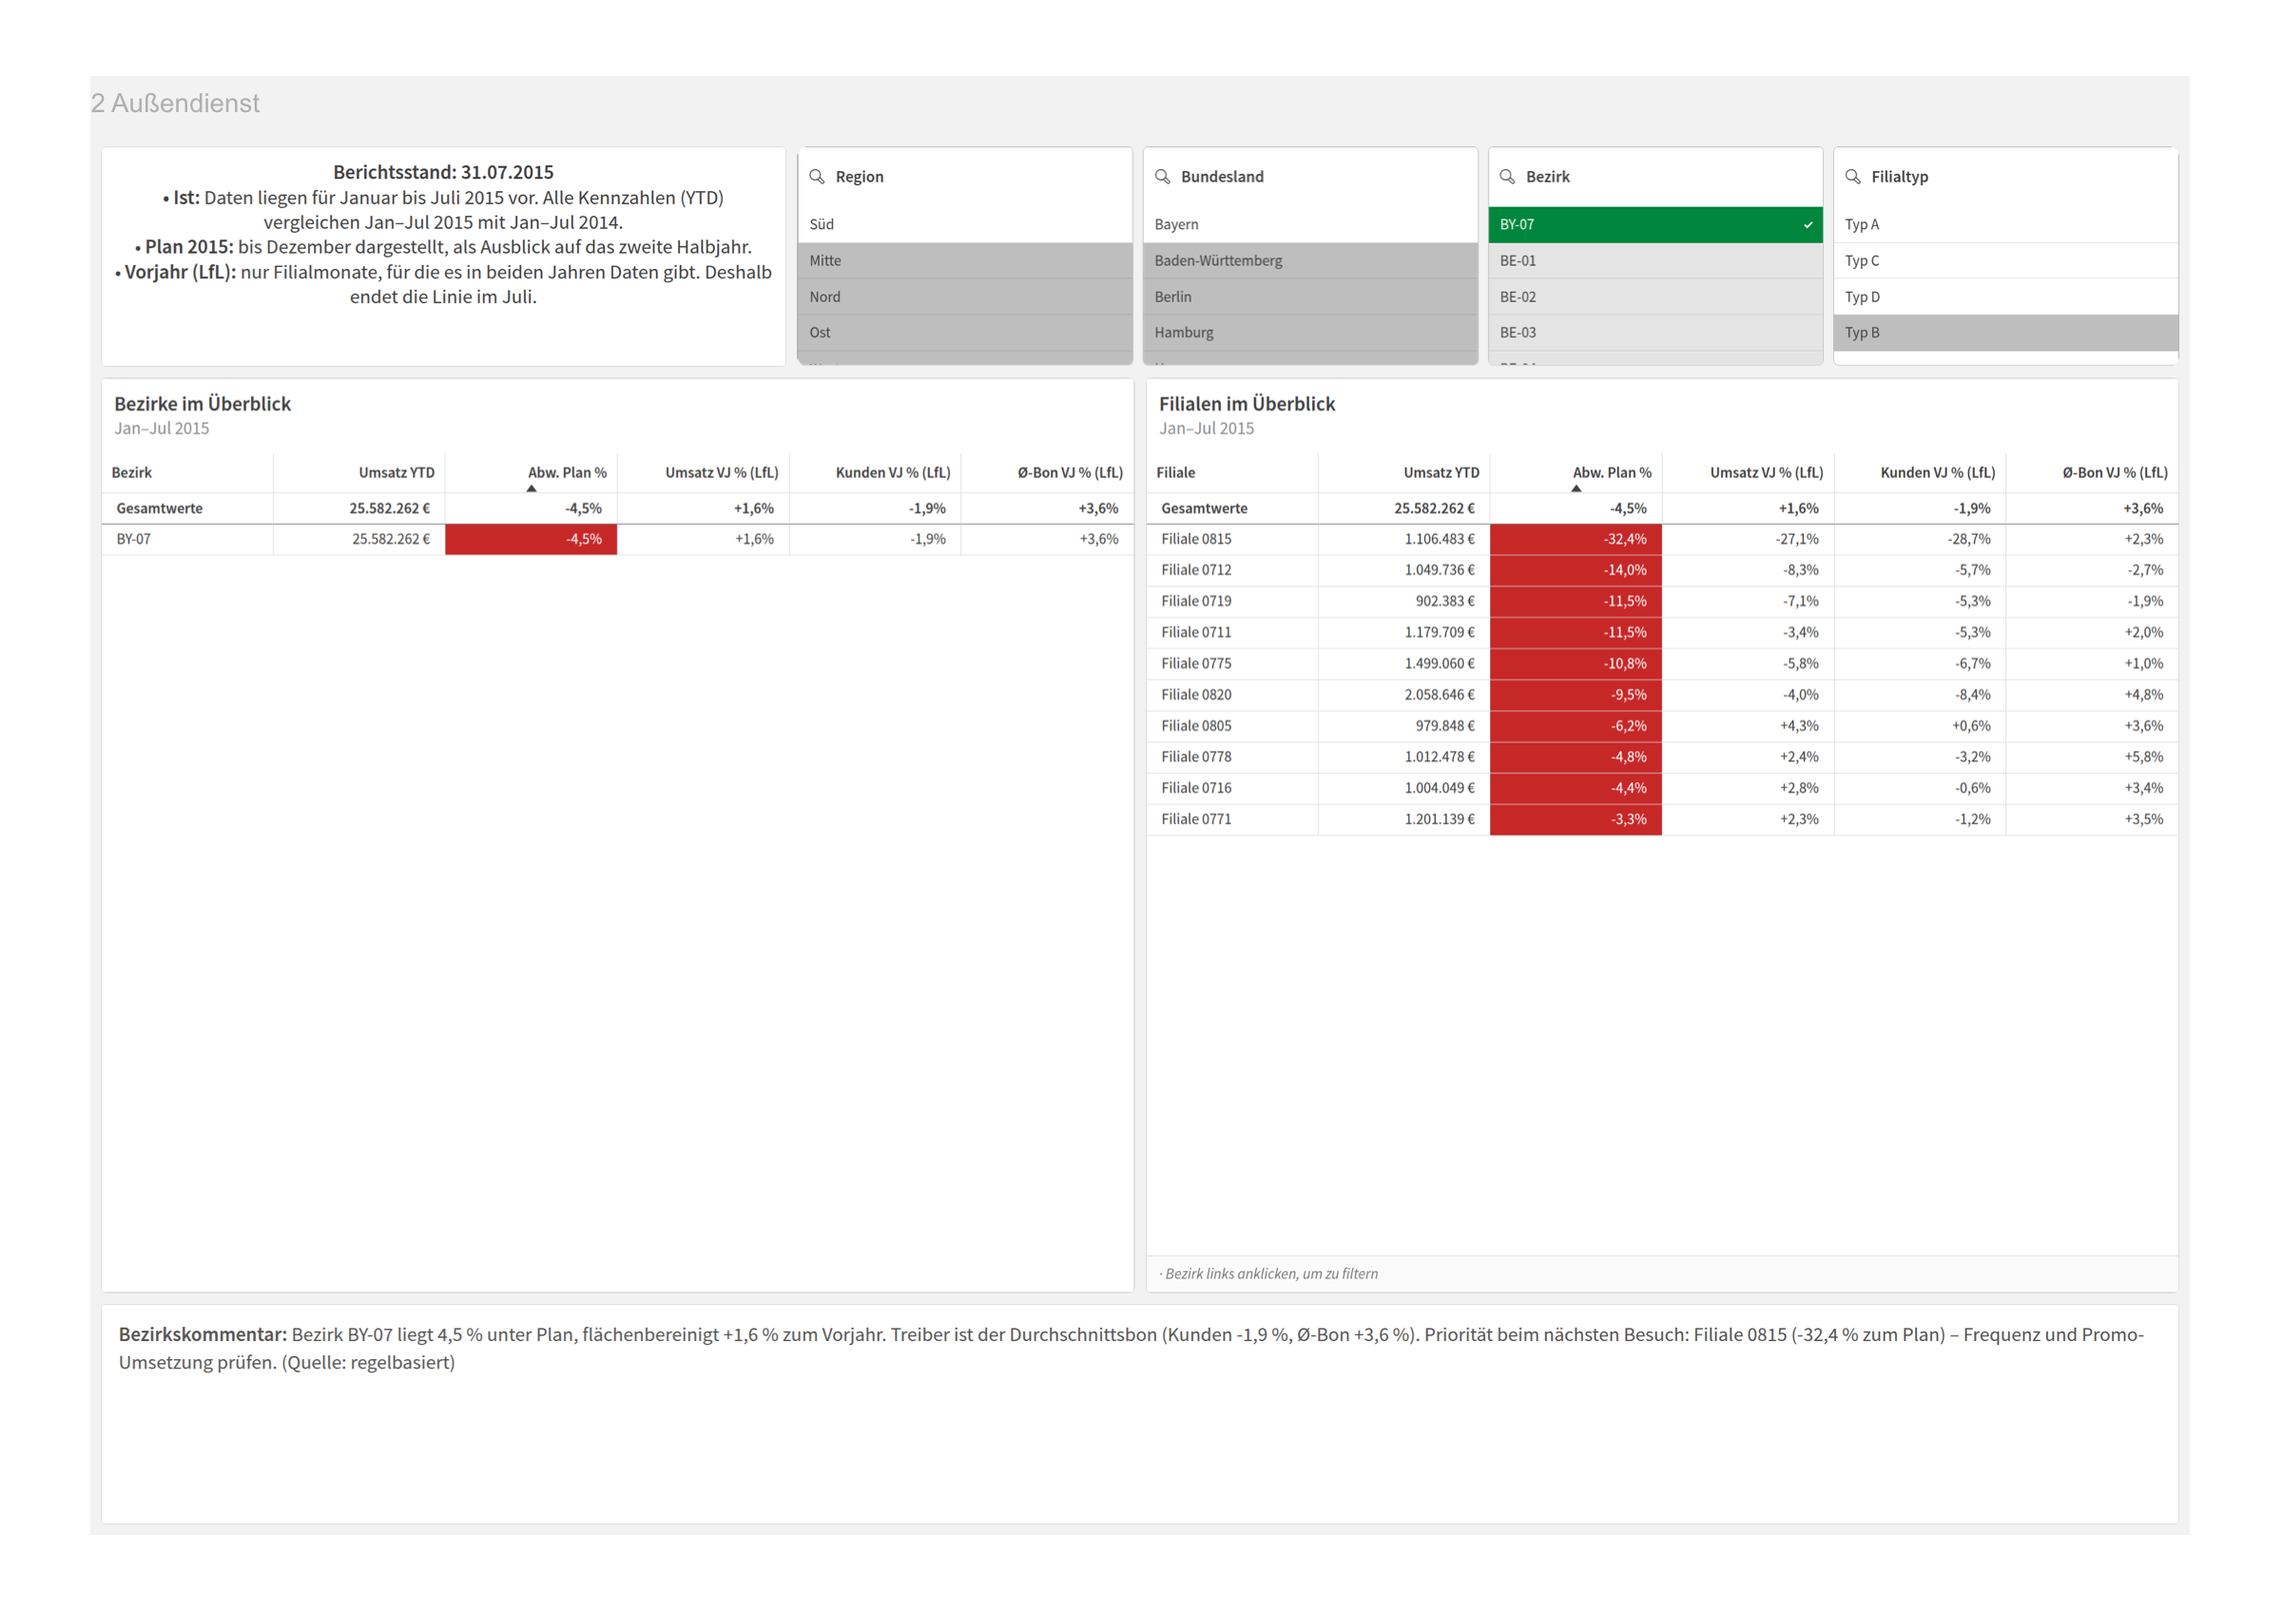
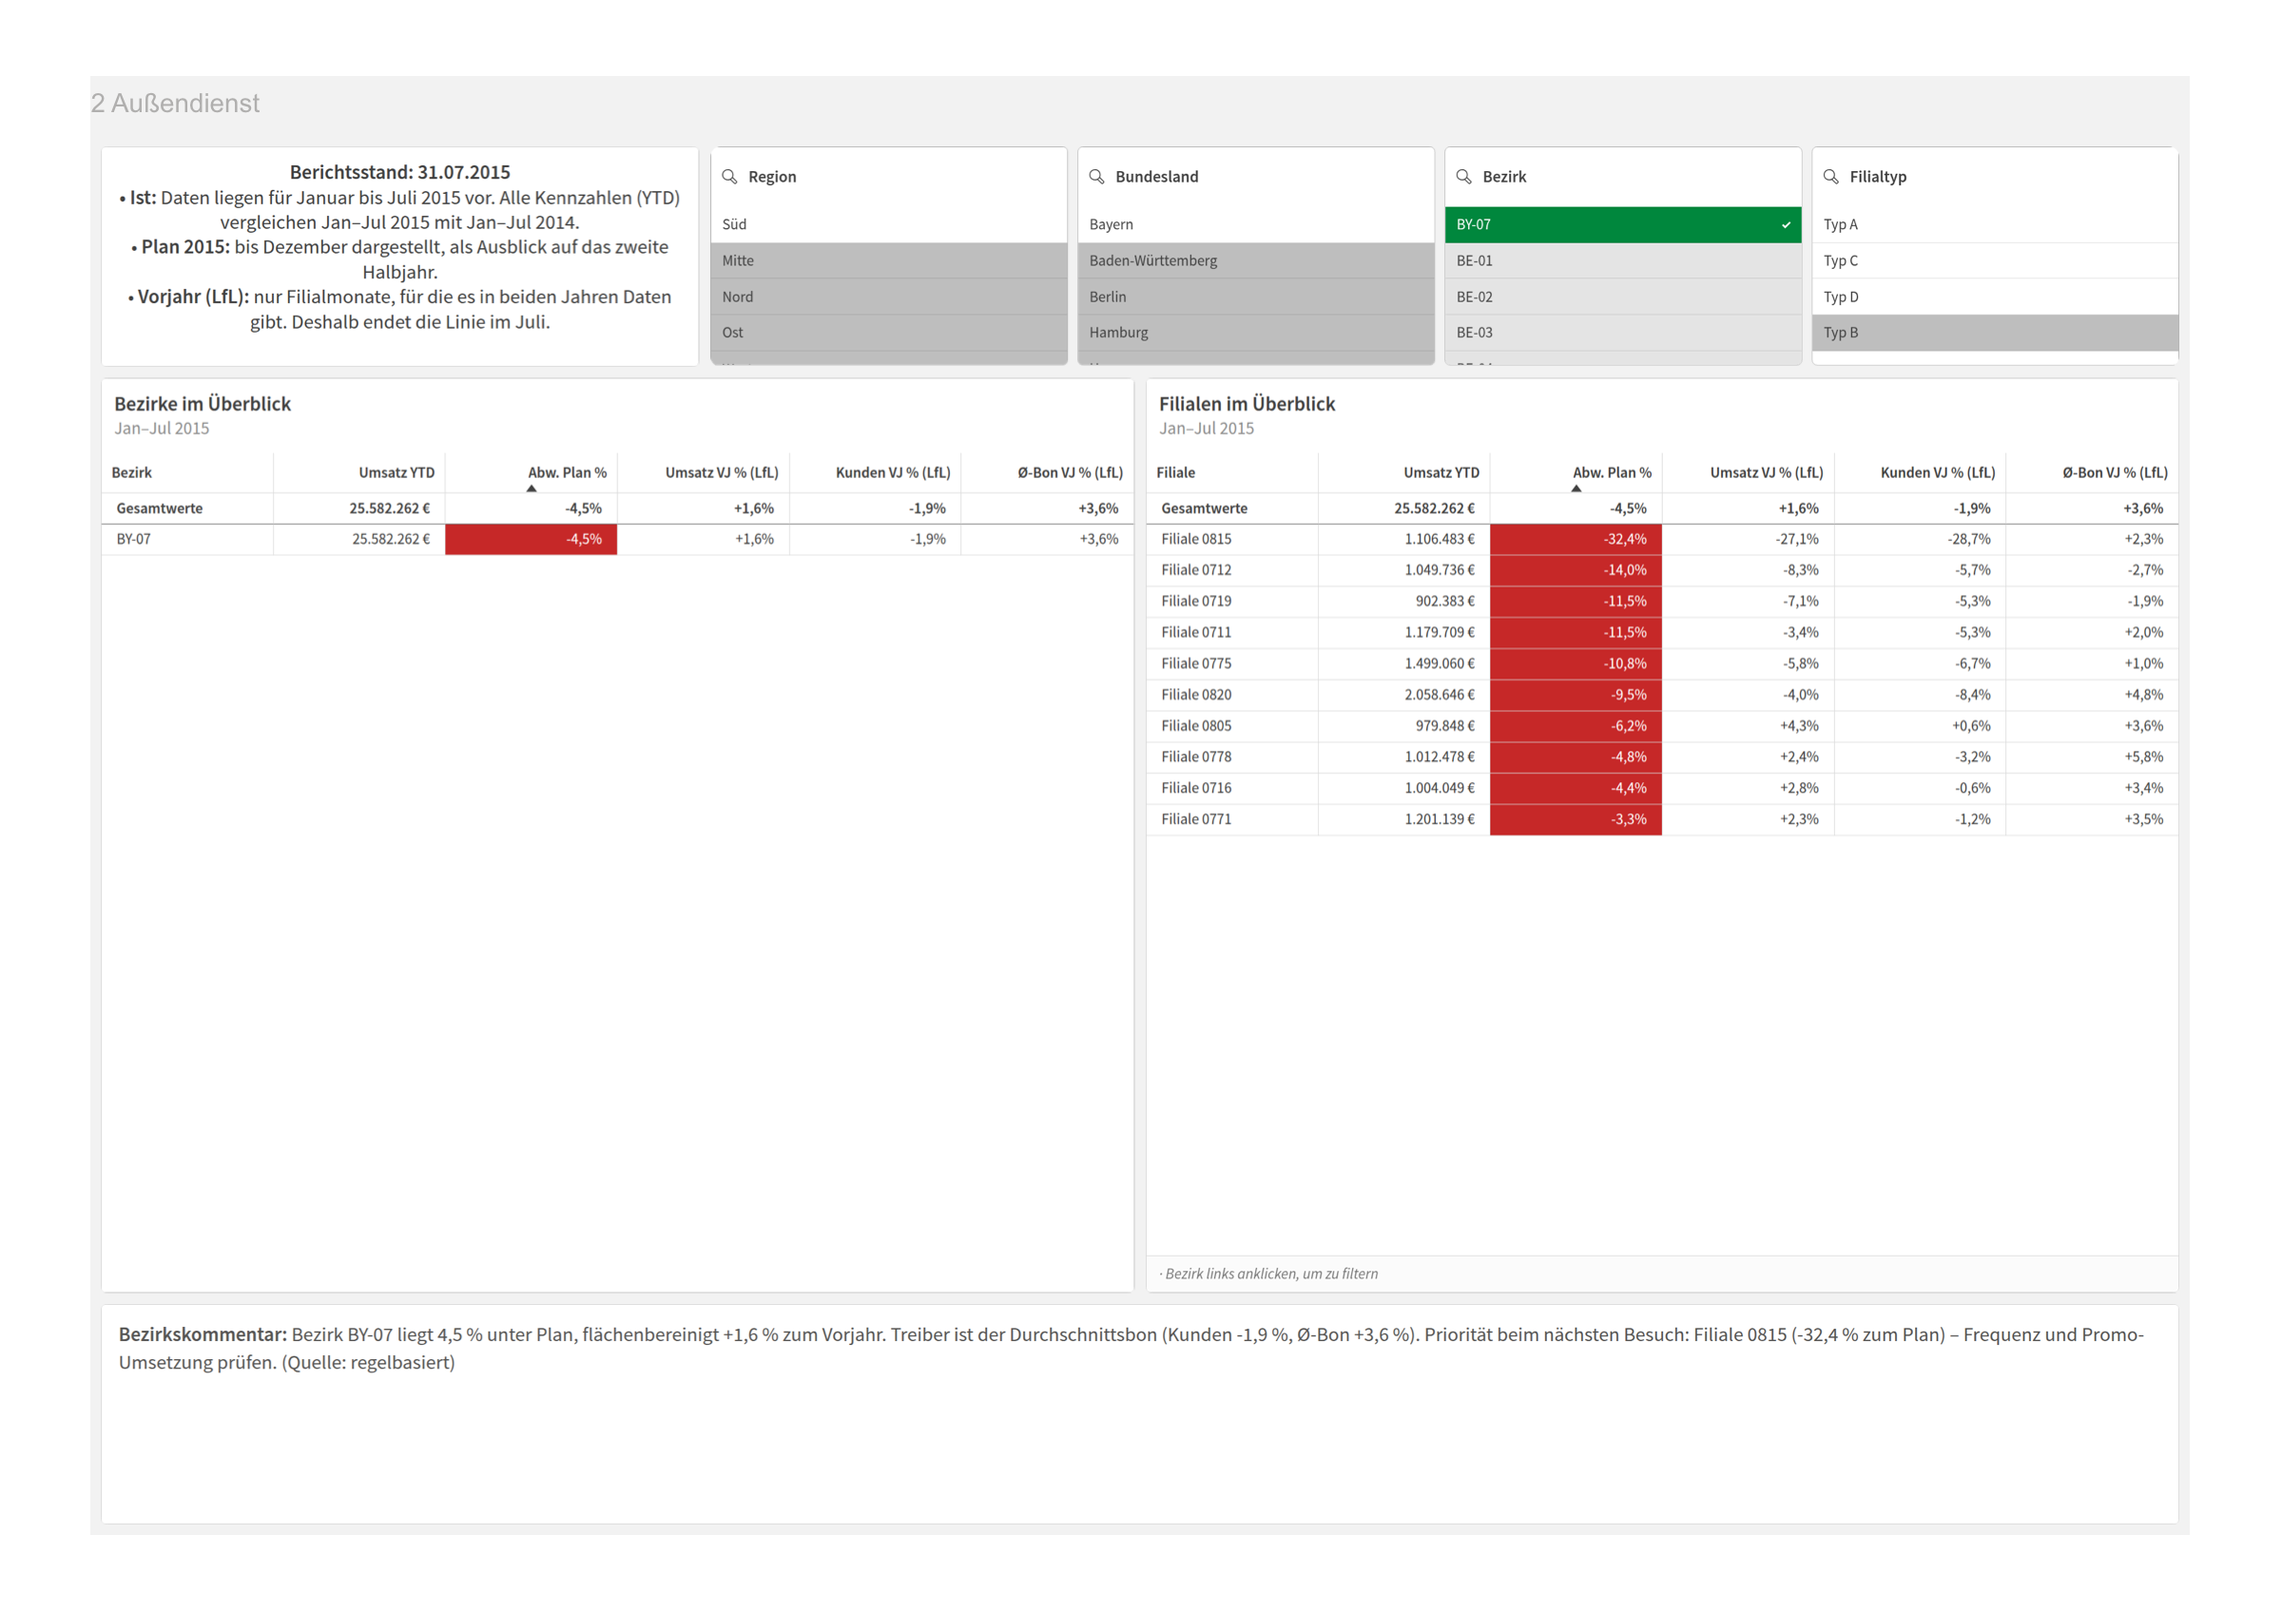
Blatt 3 Datenqualität, aktualisierte Screenshots, README auf drei Blätter angepasst

diff --git a/README.md b/README.md
@@ -16,7 +16,7 @@ SQL (SQLite, CTEs, Fensterfunktionen) · REST-API (Open-Meteo) · Claude API · 
 |---|---|---|
 | Vertriebsleitung | Liegen wir im Plan, und woher kommt das Wachstum? | Plan-Ist, Vorjahresvergleich, Zerlegung in Frequenz und Bon |
 | Außendienst | Welche Filialen in meinem Bezirk brauchen Aufmerksamkeit? | Bezirks- und Filialranking mit Ampel, Bezirkskommentar |
-| Category / Marketing | Wie wirken Aktionen, Wettbewerb, Wetter? | Promo-Uplift, Standortfaktoren |
+| Category / Marketing | Wie wirken Aktionen, Wettbewerb, Wetter? | SQL-Analysen (`sql/analysen.sql`), Ergebnisse unten |
 | alle | Können wir den Zahlen trauen? | Datenqualitätsbericht |
 
 ## Ergebnisse und Handlungsempfehlungen
@@ -53,8 +53,7 @@ Aufbau in Qlik Sense Cloud, Schritt-für-Schritt-Anleitung: [`docs/qlik_anleitun
 |---|---|
 | 1. Vertriebsleitung | KPIs, Monatsverlauf Ist/Plan/Vorjahr, Plan-Abweichung mit Drilldown Region → Bundesland → Bezirk → Filiale |
 | 2. Außendienst | Ampel-Ranking der Bezirke und Filialen, Kommentar mit Handlungsempfehlung je Bezirk |
-| 3. Einflussfaktoren | Promo-Uplift, Wochentag, Wettbewerbsnähe, Wetter |
-| 4. Datenqualität | Prüfregeln und Ergebnisse, naiver vs. flächenbereinigter Vorjahresvergleich |
+| 3. Datenqualität | Prüfregeln und Ergebnisse, naiver vs. flächenbereinigter Vorjahresvergleich |
 
 **Blatt 1 – Vertriebsleitung**
 
@@ -63,6 +62,10 @@ Aufbau in Qlik Sense Cloud, Schritt-für-Schritt-Anleitung: [`docs/qlik_anleitun
 **Blatt 2 – Außendienst** (Auswahl: Bezirk BY-07)
 
 ![Blatt 2 – Außendienst](docs/screenshots/02_aussendienst.png)
+
+**Blatt 3 – Datenqualität** (Auswahl: Bayern)
+
+![Blatt 3 – Datenqualität](docs/screenshots/03_datenqualitaet.png)
 
 ## Architektur
 
